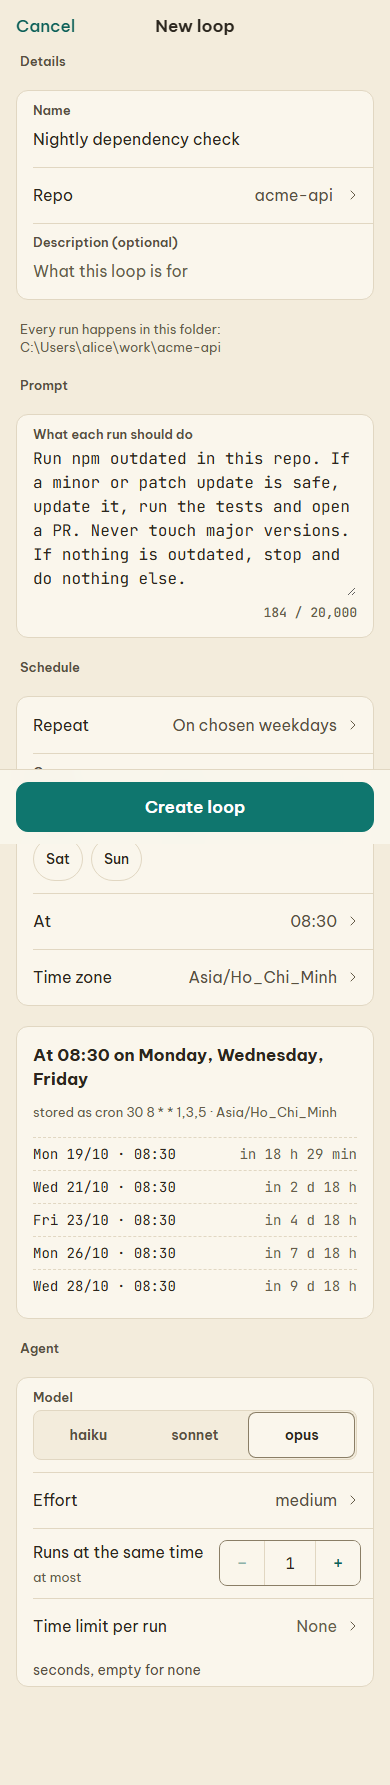
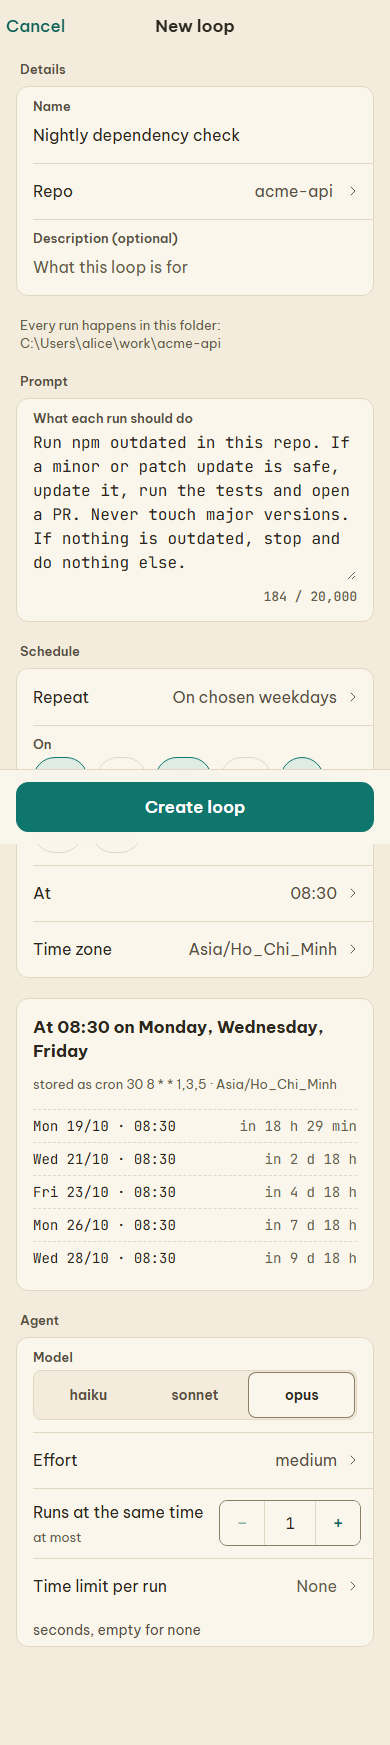
fix: every phone section caption sits 8 px above what it captions, as the boards draw (castraferrum#202)

diff --git a/tests/visual/ds/layout.visual.ts b/tests/visual/ds/layout.visual.ts
@@ -237,3 +237,95 @@ test.describe("phone loop page: caption and meta line", () => {
     expect(m.ends, "last glyphs of the wrapped lines").not.toContain("·");
   });
 });
+
+test.describe("phone section captions (castraferrum#202)", () => {
+  test.use(PHONE_VIEW);
+  const ctx = useServer();
+
+  /** Every visible `.group-cap` of the page: its text, its distance to what it captions (the next box) and to the box above. */
+  const captions = (page: Page) =>
+    page.evaluate(() => {
+      // The previous box in the flow: a caption first in a `display: contents` wrapper (All runs) follows the wrapper's sibling.
+      const before = (el: Element): Element | null => {
+        for (let n: Element | null = el; n; n = n.parentElement) {
+          let p = n.previousElementSibling;
+          while (p && getComputedStyle(p).display === "contents")
+            p = p.lastElementChild;
+          if (p) return p;
+        }
+        return null;
+      };
+      return [...document.querySelectorAll(".group-cap")]
+        .filter((c) => c.getClientRects().length)
+        .map((cap) => {
+          const box = cap.getBoundingClientRect();
+          const next = cap.nextElementSibling!.getBoundingClientRect();
+          const prev = before(cap)!.getBoundingClientRect();
+          return {
+            text: (cap.textContent ?? "").trim().split(" · ")[0]!,
+            below: Math.round(next.top - box.bottom),
+            above: Math.round(box.top - prev.bottom),
+          };
+        });
+    });
+
+  test("every caption sits --space-2 above what it captions; inside a section or under the bar, --space-2 under what is above it", async ({
+    page,
+  }) => {
+    await ctx.world(page);
+    const pilot = loopId("pilot", DS_DATA_JS);
+    // [path, the captions the page must show (their first part), the captions that sit --space-2 under what is above them:
+    // inside a section (under its head, before its second list) or opening the page under the bar (the new loop, no banner)]
+    const pages: [string, string[], string[]][] = [
+      [
+        `/loops/${pilot}`,
+        ["Active period #3", "Earlier active periods"],
+        ["Active period #3", "Earlier active periods"],
+      ],
+      [`/loops/${pilot}/runs`, ["Active period #3"], []],
+      [`/loops/${pilot}/settings`, ["Prompt"], []],
+      [
+        `/runs/${runId("pilot", 68, "")}`,
+        ["Summary", "Reopen this session on your computer"],
+        [],
+      ],
+      ["/loops/new", ["Details", "Prompt", "Schedule", "Agent"], ["Details"]],
+      [`/loops/${pilot}/edit`, ["Details", "Prompt", "Schedule", "Agent"], []],
+      ["/settings", ["Appearance", "Connection", "This device", "About"], []],
+    ];
+    const gap = await (async () => {
+      await page.goto(`${ctx.sp.baseUrl}/settings`);
+      return tokenPx(page, "--space-2");
+    })();
+    for (const [path, names, inSection] of pages) {
+      await page.goto(`${ctx.sp.baseUrl}${path}`);
+      await expect
+        .poll(async () => (await captions(page)).map((c) => c.text), {
+          message: path,
+        })
+        .toEqual(names);
+      await expect(page.locator(".skeleton")).toHaveCount(0);
+      await page.evaluate(() => document.fonts.ready);
+      const caps = await captions(page);
+      for (const c of caps) {
+        expect
+          .soft(c.below, `${path} "${c.text}": caption to what it captions`)
+          .toBe(gap);
+        if (inSection.includes(c.text))
+          expect
+            .soft(
+              c.above,
+              `${path} "${c.text}": caption to its head, list or bar`,
+            )
+            .toBe(gap);
+        else
+          expect
+            .soft(
+              c.above,
+              `${path} "${c.text}": a section caption keeps the section gap above`,
+            )
+            .toBeGreaterThan(gap);
+      }
+    }
+  });
+});

diff --git a/design/ds/components.css b/design/ds/components.css
@@ -295,6 +295,15 @@ body {
 /* A head that opens the page of what it heads (the current active period on the loop page): the link keeps the caption's size. */
 .group-cap .link { font-size: inherit; line-height: inherit; }
 .group-note { margin: 0; padding: 0 var(--space-1); color: var(--text-subtle); font-size: var(--fs-cap); line-height: var(--lh-cap); }
+@media (max-width: 639.98px) {
+  /* A caption and what it captions are one section (reference/m-*.png): the caption sits --space-2 above its list, card,
+     command or code, not the page's --space-5 apart. Inside a section (under its head, or before its second list: Earlier
+     active periods) it sits --space-2 under what is above it too; a caption that opens the page (the editor, under the
+     bar) sits --space-2 under the bar, as a page head does. */
+  .page .group-cap { margin-bottom: calc(var(--space-2) - var(--space-5)); }
+  .section-head + .group-cap, .section-head + .group-cap + .group + .group-cap { margin-top: calc(var(--space-2) - var(--space-5)); }
+  .page > .group-cap:first-child, .page > form:first-child > .group-cap:first-child { margin-top: var(--space-2); }
+}
 .cell {
   position: relative; display: flex; align-items: center; gap: var(--space-3); width: 100%; min-height: var(--size-row-sm);
   padding: var(--space-3) var(--space-3) var(--space-3) var(--space-4); border: 0; background: transparent; color: var(--text);
@@ -460,8 +469,6 @@ body {
 @media (max-width: 639.98px) {
   .section-head { gap: var(--space-1); padding: 0 var(--space-1); }
   .section-head h2 { font-weight: var(--fw-bold); }
-  /* A caption under a section head (the current active period of Recent runs) sits right under the head and right above its group. */
-  .section-head + .group-cap { margin: calc(var(--space-2) - var(--space-5)) 0; }
   .help { width: var(--size-touch); height: var(--size-touch); margin: calc(-1 * var(--space-2)) 0; }
   .help::after { content: none; }
 }

diff --git a/design/APPROVED.md b/design/APPROVED.md
@@ -351,3 +351,22 @@ Re-shot with `npm run design:shots -- --design design/ds`, light and dark (42 sh
 next line as one part, the phone ones 24px taller); `period-server-down` (the counts); `loop-running`, `loop-stopping`,
 `loop-disconnected`, `phone-loop-running` (the meta line of period #2 drops "1 failed"); `loop-help`, `phone-loop-help`
 (the command); `vi-loops-overview` (the weekday names).
+
+## Agent correction under the owner's rule of 2026-10-23 - phone section captions, 2026-10-24
+
+Made by the agent of the U27 defect lane "phone captions" (epic 63) under the rule in the epic's body (the owner is not
+asked). castraferrum#202: on the phone every section caption other than Recent runs sat the page's `--space-5` (20px)
+above the list or card it captions; the boards draw `--space-2` (8px): `reference/m-settings-light.png` (Appearance,
+Connection, This iPhone, About), `m-form-light.png` (Details, Prompt, Schedule, Agent), `m-run-light.png` (Summary,
+Reopen this session on your computer) and `m-loop-light.png` (Earlier active periods, which also sits 8px under the
+current period's group: it is the second group of the Recent runs section). The 20px the boards draw above the other
+captions is the gap between sections and stays. The castraferrum#192 rule for the Recent runs caption becomes one phone
+rule for every `.group-cap` in [`ds/components.css`](ds/components.css) ("Inset list"), written in
+[`ds/SYSTEM.md`](ds/SYSTEM.md) ("Captions on the phone"). The editor's first caption (Details) now sits 8px under the
+bar, as `m-form-light.png` draws it (it touched the bar). `tests/visual/ds/layout.visual.ts` measures every phone caption
+of the loop, All runs, loop settings, run, editor and settings pages in the real app.
+
+Re-shot with `npm run design:shots -- --design design/ds`, light and dark (24 shots), the phone states with a caption:
+`phone-form-new`, `phone-form-errors`, `phone-form-repo-pick`, `phone-form-sched-daily`, `phone-form-sched-weekly`,
+`phone-loop-running`, `phone-loop-last-failed`, `phone-loop-runs`, `phone-loop-settings`, `phone-run-succeeded`,
+`phone-settings`, `phone-vi-settings`. No other shot changed.

diff --git a/design/ds/SYSTEM.md b/design/ds/SYSTEM.md
@@ -300,9 +300,14 @@ Screens put kit components together in `web/features/`. Never add a class that i
   Loops list on the phone. A `.cell.is-link` opens a page and shows a `.chev`. A `.group-cap` that heads the runs of one
   active period starts with a `.link` to that period's page (the current period on the loop page), at the caption's size. On
   the phone that link is `--size-touch` tall (task U24) without making its line taller: its extra height hangs outside the
-  caption's line, so the caption wraps at `--lh-cap`. A caption right under a `.section-head` (Recent runs) sits
-  `--space-2` under the head and `--space-2` above its group on the phone. The parts after the link are `.keep` spans
+  caption's line, so the caption wraps at `--lh-cap`. The parts after the link are `.keep` spans
   ("· still active", "· 10 runs"): a wrap moves a whole part with its separator, never a lone word.
+- **Captions on the phone.** A `.group-cap` and what it captions (a group, a card, a command, code) are one section, as
+  the boards draw it (`reference/m-*.png`): the caption sits `--space-2` above it, while sections stay the page's
+  `--space-5` apart. Inside a section the caption sits `--space-2` under what is above it too: under a `.section-head`
+  (the current period of Recent runs) and before the section's second group (Earlier active periods). A caption that
+  opens the page (the editor, under the bar) sits `--space-2` under the bar, as a page head does. One rule of
+  `components.css` ("Inset list") does this for every screen; a screen never sets a caption's margins.
 - **Data text.** A path, an address or a version in a cell is `.cell-meta.is-data` or `.cell-value.is-data`
   (`--font-data`). `.cell-row` wraps its parts onto the next line when they do not fit. A `.cell-meta` made of
   spans (a loop row: repo, short schedule, next run) wraps between its spans, never inside one; `.is-one-line` cuts
